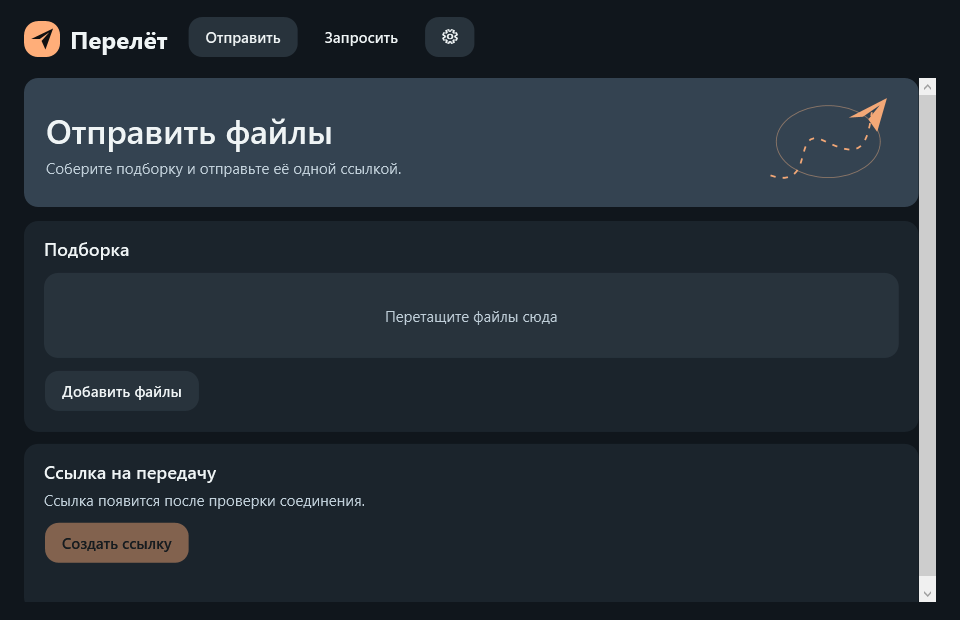
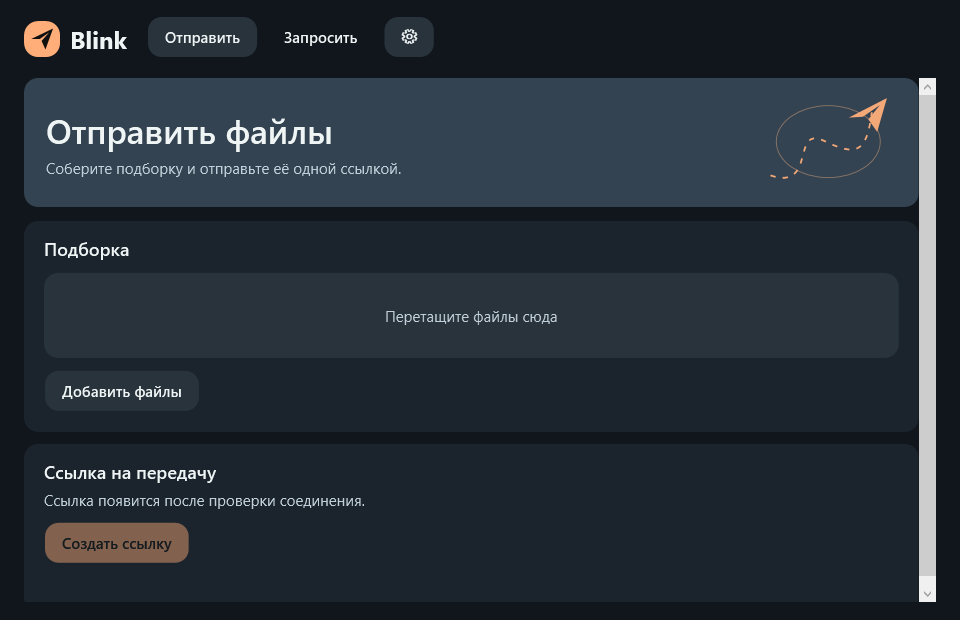
Rename Perelet to Blink and retain previous preferences

Changed region(s): [[0.0625, 0.0306, 0.5, 0.0919]]

diff --git a/source/Desk.xaml b/source/Desk.xaml
@@ -1,9 +1,9 @@
-<Window xmlns="http://schemas.microsoft.com/winfx/2006/xaml/presentation" xmlns:x="http://schemas.microsoft.com/winfx/2006/xaml" Title="Перелёт" Width="960" Height="700" MinWidth="560" MinHeight="430" WindowStartupLocation="CenterScreen" Background="{DynamicResource Base}" Foreground="{DynamicResource Text}" FontFamily="Segoe UI" FontSize="15" UseLayoutRounding="True" AllowDrop="True">
+<Window xmlns="http://schemas.microsoft.com/winfx/2006/xaml/presentation" xmlns:x="http://schemas.microsoft.com/winfx/2006/xaml" Title="Blink" Width="960" Height="700" MinWidth="560" MinHeight="430" WindowStartupLocation="CenterScreen" Background="{DynamicResource Base}" Foreground="{DynamicResource Text}" FontFamily="Segoe UI" FontSize="15" UseLayoutRounding="True" AllowDrop="True">
 <Window.Resources><SolidColorBrush x:Key="Accent" Color="#FFAE79"/>
 <Style TargetType="Button"><Setter Property="Cursor" Value="Hand"/><Setter Property="Background" Value="{DynamicResource Surface}"/><Setter Property="Foreground" Value="{DynamicResource Text}"/><Setter Property="Padding" Value="17,10"/><Setter Property="Margin" Value="0,0,8,4"/><Setter Property="MinHeight" Value="39"/><Setter Property="FontWeight" Value="SemiBold"/><Setter Property="Template"><Setter.Value><ControlTemplate TargetType="Button"><Border x:Name="box" Background="{TemplateBinding Background}" CornerRadius="{DynamicResource Round}" Padding="{TemplateBinding Padding}" BorderThickness="1" BorderBrush="Transparent"><ContentPresenter HorizontalAlignment="Center" VerticalAlignment="Center"/></Border><ControlTemplate.Triggers><Trigger Property="IsMouseOver" Value="True"><Setter TargetName="box" Property="Opacity" Value=".85"/></Trigger><Trigger Property="IsKeyboardFocused" Value="True"><Setter TargetName="box" Property="BorderBrush" Value="#FFFFFF"/></Trigger><Trigger Property="IsEnabled" Value="False"><Setter TargetName="box" Property="Opacity" Value=".45"/></Trigger></ControlTemplate.Triggers></ControlTemplate></Setter.Value></Setter></Style>
 </Window.Resources>
 <DockPanel Margin="24,16,24,18">
-<StackPanel Name="Navigation" Orientation="Horizontal" DockPanel.Dock="Top" Margin="0,0,0,16"><StackPanel Orientation="Horizontal" VerticalAlignment="Center"><Border Background="{DynamicResource Accent}" CornerRadius="{DynamicResource Round}" Width="36" Height="36"><Path Fill="{DynamicResource OnAccent}" Stretch="Uniform" Margin="7" Data="M1,13 L24,2 16,24 12,15 20,6 10,13 Z"/></Border><TextBlock Margin="10,0,0,0" VerticalAlignment="Center" FontWeight="Bold" FontSize="24">Перелёт</TextBlock></StackPanel><WrapPanel Name="Tabs"><Button Name="SendTab">Отправить</Button><Button Name="ReceiveTab">Запросить</Button><Button Name="Settings" ToolTip="Настройки" AutomationProperties.Name="Настройки" FontFamily="Segoe MDL2 Assets" Content="&#xE713;"/></WrapPanel></StackPanel>
+<StackPanel Name="Navigation" Orientation="Horizontal" DockPanel.Dock="Top" Margin="0,0,0,16"><StackPanel Orientation="Horizontal" VerticalAlignment="Center"><Border Background="{DynamicResource Accent}" CornerRadius="{DynamicResource Round}" Width="36" Height="36"><Path Fill="{DynamicResource OnAccent}" Stretch="Uniform" Margin="7" Data="M1,13 L24,2 16,24 12,15 20,6 10,13 Z"/></Border><TextBlock Margin="10,0,0,0" VerticalAlignment="Center" FontWeight="Bold" FontSize="24">Blink</TextBlock></StackPanel><WrapPanel Name="Tabs"><Button Name="SendTab">Отправить</Button><Button Name="ReceiveTab">Запросить</Button><Button Name="Settings" ToolTip="Настройки" AutomationProperties.Name="Настройки" FontFamily="Segoe MDL2 Assets" Content="&#xE713;"/></WrapPanel></StackPanel>
 <Grid><ContentControl Name="SettingsHost" Visibility="Collapsed"/><ScrollViewer Name="TransferPage" VerticalScrollBarVisibility="Auto"><Grid Name="Workspace"><Grid.RowDefinitions><RowDefinition Height="Auto"/><RowDefinition Height="Auto"/><RowDefinition Height="Auto"/></Grid.RowDefinitions><Grid.ColumnDefinitions><ColumnDefinition/><ColumnDefinition Width="0"/></Grid.ColumnDefinitions>
 <Border Grid.ColumnSpan="2" Background="{DynamicResource HeroBrush}" CornerRadius="{DynamicResource Round}" Padding="22,18" Margin="0,0,0,14">
 <Grid><Viewbox Name="Artwork" HorizontalAlignment="Right" Width="128" Height="93" Opacity=".94" IsHitTestVisible="False"><Canvas Width="144" Height="104"><Ellipse Canvas.Left="8" Canvas.Top="10" Width="118" Height="82" Stroke="#917969" StrokeThickness="1"/><Path Stroke="{DynamicResource Accent}" StrokeThickness="2" StrokeDashArray="3 4" Data="M2,89 C54,107 25,32 62,50 S110,64 116,18"/><Path Canvas.Left="90" Canvas.Top="2" Fill="{DynamicResource Accent}" Data="M0,22 L43,0 32,38 22,24 35,8 16,21 Z"/></Canvas></Viewbox><StackPanel Name="HeroWords" Margin="0,0,123,0" VerticalAlignment="Center"><TextBlock Name="Hero" FontSize="34" FontWeight="SemiBold" TextWrapping="Wrap"/><TextBlock Name="Hint" Margin="0,5,0,0" Foreground="{DynamicResource Muted}" TextWrapping="Wrap"/></StackPanel></Grid></Border>

diff --git a/source/page.html b/source/page.html
@@ -1,5 +1,5 @@
-<!doctype html><html lang="ru"><meta charset="utf-8"><meta name="viewport" content="width=device-width,initial-scale=1"><title>Перелёт · Передача файлов</title>
+<!doctype html><html lang="ru"><meta charset="utf-8"><meta name="viewport" content="width=device-width,initial-scale=1"><title>Blink · Передача файлов</title>
 <style>*{box-sizing:border-box}body{margin:0;color:#edf3f4;background:#11181f;font:17px/1.5 "Segoe UI",system-ui,sans-serif}main{max-width:760px;margin:7vh auto;padding:20px}header{font-size:22px;font-weight:700;margin-bottom:30px}header b{background:#ffae79;color:#20272b;border-radius:12px;padding:5px 10px;margin-right:8px}article{overflow:hidden;background:#1d2932;border:1px solid #37444d;border-radius:24px;box-shadow:0 18px 60px #30214712}.cover{padding:34px;background:repeating-radial-gradient(circle at 110% 128%,transparent 0 18px,#ffffff18 19px 20px,transparent 21px 38px),#34444e;color:white}h1{font-size:clamp(32px,6vw,50px);letter-spacing:-.055em;line-height:1.05;margin:0}ul{list-style:none;padding:0;margin:0}li,.upload{padding:20px clamp(16px,4vw,32px)}li{display:flex;align-items:center;justify-content:space-between;gap:14px;border-bottom:1px solid #35404a}li:last-child{border:none}strong,small{display:block;overflow-wrap:anywhere}small,footer{color:#b6c5cd}a,button{border:0;border-radius:10px;color:#24201d;background:#ffae79;font-size:15px;font-family:inherit;font-weight:600;padding:11px 16px;text-decoration:none;cursor:pointer}input{max-width:100%;margin:14px 0}footer{font-size:14px;margin:18px 4px}progress{width:100%}body[data-mode=send] .upload,body[data-mode=receive] .download,[hidden]{display:none}.bulk{display:inline-block;margin-top:18px}.zipnote{font-size:14px;margin-left:12px;color:#e0e9eb}li input{width:19px;height:19px;accent-color:#ffae79;flex-shrink:0}li div{flex:1;min-width:0}#selection{padding:14px 22px 0}#subset{background:#354653;color:white}#subset:disabled{opacity:.55}</style>
-<body data-mode="@MODE@"><main><header><b>↗</b> Перелёт</header><article><div class="cover"><h1 class="download">Файлы для вас</h1><a class="download bulk" href="all.zip" download>Скачать всё</a><span class="download zipnote">ZIP · без сжатия</span><h1 class="upload">Отправить файл</h1></div><form id="selection" method="post" action="selected.zip" class="download"><button disabled id="subset">Скачать выбранные</button></form><ul class="download">@FILES@</ul><div class="upload"><small>Сохранение на компьютере</small><strong>@TARGET@</strong><input id="pick" type="file" aria-label="Выбор файла"><br><button id="start">Отправить</button><p id="status" role="status"></p><progress id="bar" hidden></progress></div></article><footer>Владелец может отозвать ссылку. Для передачи его компьютер должен быть онлайн.</footer></main><script src="ui.js"></script></body></html>
+<body data-mode="@MODE@"><main><header><b>↗</b> Blink</header><article><div class="cover"><h1 class="download">Файлы для вас</h1><a class="download bulk" href="all.zip" download>Скачать всё</a><span class="download zipnote">ZIP · без сжатия</span><h1 class="upload">Отправить файл</h1></div><form id="selection" method="post" action="selected.zip" class="download"><button disabled id="subset">Скачать выбранные</button></form><ul class="download">@FILES@</ul><div class="upload"><small>Сохранение на компьютере</small><strong>@TARGET@</strong><input id="pick" type="file" aria-label="Выбор файла"><br><button id="start">Отправить</button><p id="status" role="status"></p><progress id="bar" hidden></progress></div></article><footer>Владелец может отозвать ссылку. Для передачи его компьютер должен быть онлайн.</footer></main><script src="ui.js"></script></body></html>
 
 

diff --git a/source/Preferences.cs b/source/Preferences.cs
@@ -7,14 +7,17 @@ using System.Windows.Interop;
 using System.Windows.Markup;
 
 internal sealed class Preferences {
-    static string ConfigPath {get{return Path.Combine(Environment.GetFolderPath(Environment.SpecialFolder.LocalApplicationData),"Perelet","preferences.xml");}}
+    static string ConfigPath {get{return Path.Combine(Environment.GetFolderPath(Environment.SpecialFolder.LocalApplicationData),"Blink","preferences.xml");}}
     public string Folder=Environment.GetFolderPath(Environment.SpecialFolder.DesktopDirectory);
     public int Hours=12;
     public bool ConfirmClose=true,Tray;
     public string Theme=Themes.Names[0];
     public string[] Colors=(string[])Themes.Defaults.Clone();
     internal static readonly string[] Accents={"Персик","Мята","Лаванда","Голубой"};
-    public static Preferences Load(){return Load(ConfigPath);}
+    public static Preferences Load(){
+        string legacy=Path.Combine(Environment.GetFolderPath(Environment.SpecialFolder.LocalApplicationData),"Perelet","preferences.xml");
+        return Load(File.Exists(ConfigPath)?ConfigPath:legacy);
+    }
     internal static Preferences Load(string location){
         var p=new Preferences();
         try{
@@ -23,8 +26,8 @@ internal sealed class Preferences {
                 if(Directory.Exists(folder))p.Folder=folder;
                 int hours;if(int.TryParse((string)x.Element("hours"),out hours)&&Array.IndexOf(new[]{1,6,12,24},hours)>=0)p.Hours=hours;
                 string accent=(string)x.Element("accent");int legacy=Array.IndexOf(Accents,accent);if(legacy>=0)p.Colors[1]=new[]{"#FFAE79","#82DCC4","#C5AEFA","#91C8FF"}[legacy];
-                string theme=(string)x.Element("theme");if(Array.IndexOf(Themes.Names,theme)>=0)p.Theme=theme;
-                foreach(var el in x.Elements("color")){int i=Array.IndexOf(Themes.Names,(string)el.Attribute("theme"));if(i>=0&&Themes.Valid(el.Value))p.Colors[i]=el.Value;}
+                string theme=(string)x.Element("theme");if(theme=="Перелёт")theme="Blink";if(Array.IndexOf(Themes.Names,theme)>=0)p.Theme=theme;
+                foreach(var el in x.Elements("color")){int i=Array.IndexOf(Themes.Names,(string)el.Attribute("theme")=="Перелёт"?"Blink":(string)el.Attribute("theme"));if(i>=0&&Themes.Valid(el.Value))p.Colors[i]=el.Value;}
                 bool tray;if(bool.TryParse((string)x.Element("tray"),out tray))p.Tray=tray;
                 bool confirm;if(bool.TryParse((string)x.Element("confirmClose"),out confirm))p.ConfirmClose=confirm;
             }

diff --git a/source/Desk.cs b/source/Desk.cs
@@ -36,7 +36,7 @@ class Desk {
         window.Width=Math.Min(window.Width,SystemParameters.WorkArea.Width);window.Height=Math.Min(window.Height,SystemParameters.WorkArea.Height);
         folder=preferences.Folder;
         ApplyAccent();window.SizeChanged+=delegate{ApplyAccent();};
-        trayIcon=new System.Windows.Forms.NotifyIcon{Text="Перелёт",Icon=System.Drawing.Icon.ExtractAssociatedIcon(typeof(Desk).Assembly.Location)};
+        trayIcon=new System.Windows.Forms.NotifyIcon{Text="Blink",Icon=System.Drawing.Icon.ExtractAssociatedIcon(typeof(Desk).Assembly.Location)};
         var menu=new System.Windows.Forms.ContextMenuStrip();menu.Items.Add("Открыть",null,delegate{Restore();});menu.Items.Add("Выйти",null,delegate{exitTray=true;Restore();window.Close();exitTray=false;});trayIcon.ContextMenuStrip=menu;trayIcon.DoubleClick+=delegate{Restore();};
         B("Settings").Click+=delegate{
             var host=Find<ContentControl>("SettingsHost");if(host.Content!=null){HideSettings();return;}
@@ -47,7 +47,7 @@ class Desk {
         B("QrButton").Click+=delegate{var qr=Find<Image>("Qr");if(qr.Visibility==Visibility.Visible){qr.Visibility=Visibility.Collapsed;return;}if(Address.Text.Length>0){qr.Source=LinkQr.Render(Address.Text);qr.Visibility=Visibility.Visible;}};
         window.Closing+=delegate(object sender,System.ComponentModel.CancelEventArgs e){
             if(preferences.Tray&&!exitTray){e.Cancel=true;trayIcon.Visible=true;window.Hide();return;}
-            if(session!=null && preferences.ConfirmClose)e.Cancel=MessageBox.Show(window,"Закрыть приложение и отозвать действующую ссылку?","Перелёт",MessageBoxButton.YesNo,MessageBoxImage.Question,MessageBoxResult.No)!=MessageBoxResult.Yes;
+            if(session!=null && preferences.ConfirmClose)e.Cancel=MessageBox.Show(window,"Закрыть приложение и отозвать действующую ссылку?","Blink",MessageBoxButton.YesNo,MessageBoxImage.Question,MessageBoxResult.No)!=MessageBoxResult.Yes;
         };
         Queue.ItemsSource=files;Queue.SelectionChanged+=delegate{Sync();};
         B("SendTab").Click+=delegate{SetMode(false);};B("ReceiveTab").Click+=delegate{SetMode(true);};

diff --git a/source/Session.cs b/source/Session.cs
@@ -30,7 +30,7 @@ public sealed class Session : IDisposable {
         byte[] random=new byte[32]; using(var rng=RandomNumberGenerator.Create()) rng.GetBytes(random);
         Key=BitConverter.ToString(random).Replace("-","").ToLowerInvariant();
         folderMode=receive && Directory.Exists(file);
-        partial=folderMode?Path.Combine(file,".perelet-"+Key+".partial"):file+"."+Key.Substring(0,12)+".partial";
+        partial=folderMode?Path.Combine(file,".blink-"+Key+".partial"):file+"."+Key.Substring(0,12)+".partial";
         try {
             if(receive && File.Exists(file)) throw new IOException("Выберите новое имя файла.");
             if(!receive) foreach(string name in files) sources.Add(new FileStream(name,FileMode.Open,FileAccess.Read,FileShare.Read));
@@ -82,7 +82,7 @@ public sealed class Session : IDisposable {
         else if(!receiving && route=="all.zip"){
             SendBundle(c,sources);
         }
-        else if(route=="probe") Reply(c,200,"perelet-"+Key.Substring(0,24));
+        else if(route=="probe") Reply(c,200,"blink-"+Key.Substring(0,24));
         else if(!receiving && (route=="file"||route.StartsWith("file/"))){
             int index=0;
             if(route!="file" && (!Int32.TryParse(route.Substring(5),System.Globalization.NumberStyles.None,CultureInfo.InvariantCulture,out index)||index>=sources.Count)){Reply(c,404,"");return;}
@@ -91,7 +91,7 @@ public sealed class Session : IDisposable {
         else Reply(c,404,"");
     }
     void SendBundle(LocalContext c,System.Collections.Generic.IEnumerable<FileStream> files){
-        var bundle=new Bundle(files);var r=c.Response;r.ContentType="application/zip";r.Headers["Content-Disposition"]="attachment; filename=Perelet.zip";r.ContentLength64=bundle.Length;
+        var bundle=new Bundle(files);var r=c.Response;r.ContentType="application/zip";r.Headers["Content-Disposition"]="attachment; filename=Blink.zip";r.ContentLength64=bundle.Length;
         if(c.Request.HttpMethod=="HEAD"){r.Close();return;}
         var t=transfers.Begin("Архив",bundle.PayloadSize);bool done=false;
         try{bundle.Send(r.OutputStream,()=>!closed && DateTime.UtcNow<Expires,(name,n)=>transfers.Report(t,name,n));r.Close();done=true;}

diff --git a/source/Link.cs b/source/Link.cs
@@ -19,7 +19,7 @@ sealed class Link : IDisposable {
             req.Timeout=req.ReadWriteTimeout=5000;req.AllowAutoRedirect=false;req.KeepAlive=false;
             using(var res=(HttpWebResponse)req.GetResponse())
             using(var stream=new StreamReader(res.GetResponseStream())){
-                string expected="perelet-"+key.Substring(0,24);
+                string expected="blink-"+key.Substring(0,24);
                 if(res.StatusCode!=HttpStatusCode.OK||res.ContentLength>256)return false;
                 char[] data=new char[expected.Length+1];int n=stream.ReadBlock(data,0,data.Length);
                 return new string(data,0,n)==expected;

diff --git a/source/Themes.cs b/source/Themes.cs
@@ -5,7 +5,7 @@ using System.Windows.Media;
 using System.Text.RegularExpressions;
 
 internal static class Themes {
-    internal static readonly string[] Names={"Полярная ночь","Перелёт","Атлас","Плакат","Терминал","Галька"};
+    internal static readonly string[] Names={"Полярная ночь","Blink","Атлас","Плакат","Терминал","Галька"};
     internal static readonly string[] Defaults={"#93CEFF","#FFAE79","#C6DF63","#FFCF38","#A9ED98","#C7A9ED"};
     // background, card, secondary surface, text, muted, hero
     static readonly string[][] palettes={

diff --git a/README.md b/README.md
@@ -1,15 +1,15 @@
-# Перелёт
+# Blink
 
 Передача файлов с Windows по ссылке или QR-коду. Отправитель выбирает файлы на компьютере, а получатель открывает страницу в браузере телефона или ПК. Для получения файлов на свой компьютер есть режим «Запросить».
 
-[Скачать для Windows x64](https://github.com/uvi0n/perelet/releases/latest) · [Посмотреть шесть тем](docs/themes.md)
+[Скачать для Windows x64](https://github.com/uvi0n/Blink/releases/latest) · [Посмотреть шесть тем](docs/themes.md)
 
 ![Главное окно в теме «Полярная ночь»](docs/theme-0.png)
 
 ## Начало работы
 
 1. Скачайте ZIP из Releases и распакуйте **всю папку**. Требуются Windows x64 и .NET Framework 4.8.
-2. Запустите **Perelet.exe** и перетащите файлы в окно. Можно собрать подборку из нескольких папок.
+2. Запустите **Blink.exe** и перетащите файлы в окно. Можно собрать подборку из нескольких папок.
 3. Нажмите **Создать ссылку**. Когда приложение проверит адрес через интернет, скопируйте ссылку или покажите QR-код.
 4. Оставьте компьютер включённым до конца передачи. Для немедленного закрытия доступа нажмите **Отозвать**.
 
@@ -23,7 +23,7 @@
 
 В шестерёнке главного окна есть шесть дизайнов. «Полярная ночь» включена по умолчанию. Выберите дизайн и откройте **RGB-палитру**, чтобы задать цвет визуально или по компонентам R/G/B. Акцент хранится отдельно для каждой темы. Изменения вступают в силу после **Сохранить**.
 
-Там же доступны папка для входящих файлов, срок новых ссылок (1, 6, 12 или 24 часа), подтверждение выхода и сворачивание в системный трей. Настройки Windows-клиента находятся в `%LOCALAPPDATA%\Perelet\preferences.xml`.
+Там же доступны папка для входящих файлов, срок новых ссылок (1, 6, 12 или 24 часа), подтверждение выхода и сворачивание в системный трей. Настройки Windows-клиента находятся в `%LOCALAPPDATA%\Blink\preferences.xml`.
 
 ## Соединение и приватность
 
@@ -39,7 +39,7 @@
 source\build.cmd
 ~~~
 
[2 lines of base64/hex data omitted]
 
 ## Исходники
 

diff --git a/docs/themes.md b/docs/themes.md
@@ -6,9 +6,9 @@
 
 ![Полярная ночь](theme-0.png)
 
-## Перелёт
+## Blink
 
-![Перелёт](theme-1.png)
+![Blink](theme-1.png)
 
 ## Атлас
 
